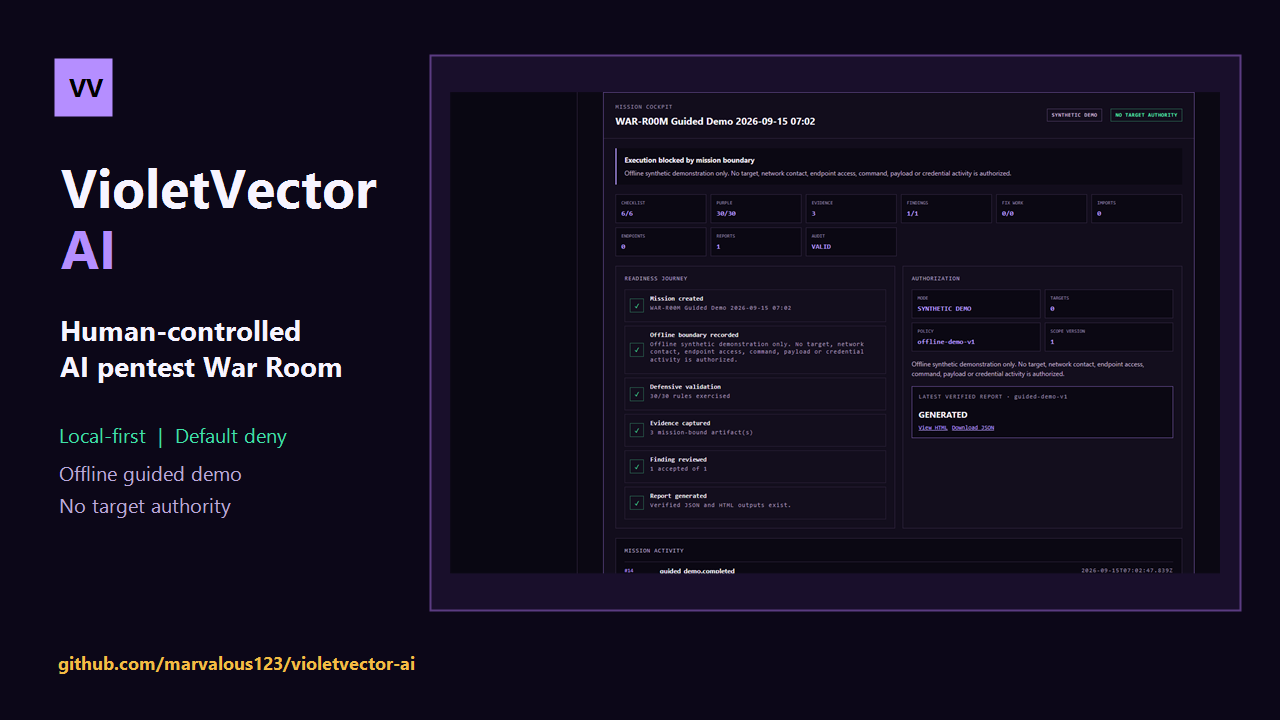
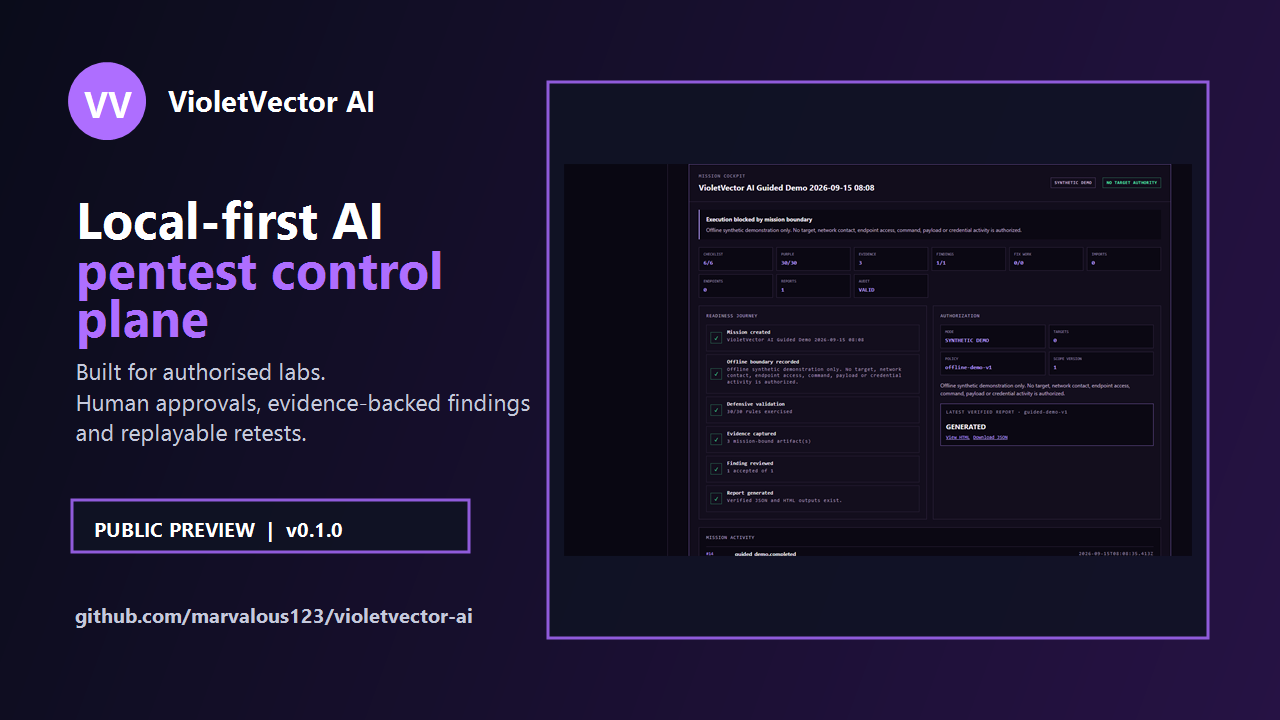
Complete VioletVector product rebrand

diff --git a/apps/web/src/main.tsx b/apps/web/src/main.tsx
@@ -1647,7 +1647,7 @@ function App() {
     return (
       <main className="operator-lock">
         <form className="panel unlock-panel" onSubmit={unlock} autoComplete="off">
-          <div className="panel-title"><div><p>LOCAL OPERATOR SESSION</p><h1>Unlock WAR-R00M</h1></div><span>{session === null ? "CHECKING" : "LOCKED"}</span></div>
+          <div className="panel-title"><div><p>LOCAL OPERATOR SESSION</p><h1>Unlock VioletVector AI</h1></div><span>{session === null ? "CHECKING" : "LOCKED"}</span></div>
           <div className="unlock-body">
           <div className="warning">Use the per-launch bootstrap secret shown in the local startup terminal. It is never stored in the browser or audit log.</div>
             <label>Operator name<input value={operatorName} onChange={(event) => setOperatorName(event.target.value)} minLength={2} maxLength={120} autoComplete="off" required /></label>
@@ -1663,7 +1663,7 @@ function App() {
   return (
     <div className="shell">
       <aside>
-        <div className="brand"><span>WR</span> WAR-R00M</div>
+        <div className="brand"><span>VV</span> VioletVector AI</div>
         <nav>
           {['Missions', 'Capabilities', 'Blue Team', 'Workflow', 'Plan & Compare', 'Local AI', 'Approvals', 'Findings', 'Evidence', 'Reports', 'System'].map((item) => (
             <button className={view === item ? 'active' : ''} key={item} onClick={() => setView(item)}>{item}</button>
@@ -1926,7 +1926,7 @@ function App() {
                   <span>ENDPOINTS<strong>{blueWorkspace?.liveEndpoints.length ?? 0}</strong></span>
                 </div>
                 <p className="blue-copy">
-                  The server accepts signed primitive facts and exact health measurements only. Detection labels are calculated here in WAR-R00M; commands never travel back to the endpoint.
+                  The server accepts signed primitive facts and exact health measurements only. Detection labels are calculated here in VioletVector AI; commands never travel back to the endpoint.
                 </p>
                 <div className="control-note">{blueWorkspace?.endpointAccess.note ?? "Loading endpoint boundary…"}</div>
                 <label>Enrolled endpoint
@@ -3307,7 +3307,7 @@ function App() {
                     <span>BINDING<strong>{supportDiagnostics.runtime.loopbackOnly ? "LOOPBACK" : "REVIEW"}</strong></span>
                   </div>
                   <div className="control-note">
-                    WAR-R00M {supportDiagnostics.product.version} · {supportDiagnostics.product.edition} · Node {supportDiagnostics.runtime.node} ·
+                    {supportDiagnostics.product.name} {supportDiagnostics.product.version} · {supportDiagnostics.product.edition} · Node {supportDiagnostics.runtime.node} ·
                     checked {supportDiagnostics.generatedAt}. This view deliberately omits targets, evidence content, secrets and local paths.
                   </div>
                   <div className="record-list">

diff --git a/apps/api/src/services/report-export-service.ts b/apps/api/src/services/report-export-service.ts
@@ -229,9 +229,9 @@ async function renderPdf(
 ): Promise<Uint8Array> {
   const document = await PDFDocument.create();
   document.setTitle(`${snapshot.mission.name} - Security Assessment Report`);
-  document.setAuthor("WAR-R00M");
+  document.setAuthor("VioletVector AI");
   document.setSubject("Evidence-backed authorized security assessment");
-  document.setCreator("WAR-R00M report-export-v1");
+  document.setCreator("VioletVector AI report-export-v1");
   const fixedDate = new Date(snapshot.frozenAt);
   document.setCreationDate(fixedDate);
   document.setModificationDate(fixedDate);
@@ -248,7 +248,7 @@ async function renderPdf(
   const newPage = () => {
     page = document.addPage([pageWidth, pageHeight]);
     pageNumber += 1;
-    page.drawText("WAR-R00M | EVIDENCE-BACKED ASSESSMENT", {
+    page.drawText("VIOLETVECTOR AI | EVIDENCE-BACKED ASSESSMENT", {
       x: margin,
       y: pageHeight - 42,
       size: 8,
@@ -465,7 +465,7 @@ async function renderDocx(
     )
   );
   const document = new Document({
-    creator: "WAR-R00M",
+    creator: "VioletVector AI",
     title: `${snapshot.mission.name} - Security Assessment Report`,
     description: "Evidence-backed authorized security assessment",
     styles: {
@@ -532,7 +532,7 @@ async function renderDocx(
         default: new Header({
           children: [
             new Paragraph({
-              children: [new TextRun({ text: "WAR-R00M | EVIDENCE-BACKED ASSESSMENT", size: 16, bold: true, color: "576D66" })]
+              children: [new TextRun({ text: "VIOLETVECTOR AI | EVIDENCE-BACKED ASSESSMENT", size: 16, bold: true, color: "576D66" })]
             })
           ]
         })

diff --git a/apps/api/src/server.ts b/apps/api/src/server.ts
@@ -1803,9 +1803,9 @@ export function startServer(options: ServerOptions = {}) {
   const configuredSecret = options.bootstrapSecret ?? process.env.WAR_ROOM_OPERATOR_BOOTSTRAP;
   const bootstrapSecret = configuredSecret ?? OperatorSessionService.generateBootstrapSecret();
   if (!configuredSecret) {
-    console.warn(`WAR-R00M per-launch operator bootstrap secret: ${bootstrapSecret}`);
+    console.warn(`VioletVector AI per-launch operator bootstrap secret: ${bootstrapSecret}`);
   }
   return buildServer({ ...options, bootstrapSecret }).listen(port, host, () => {
-    console.log(`WAR-R00M listening on http://${host}:${port}`);
+    console.log(`VioletVector AI listening on http://${host}:${port}`);
   });
 }

diff --git a/apps/api/src/services/support-diagnostics-service.ts b/apps/api/src/services/support-diagnostics-service.ts
@@ -20,7 +20,7 @@ const MAX_EVIDENCE_BYTES = 32 * 1024 * 1024;
 export interface SupportDiagnostics {
   readonly generatedAt: string;
   readonly product: {
-    readonly name: "WAR-R00M";
+    readonly name: "VioletVector AI";
     readonly version: "0.1.0";
     readonly edition: "starter" | "professional";
   };
@@ -84,7 +84,7 @@ export class SupportDiagnosticsService {
     return {
       generatedAt: now.toISOString(),
       product: {
-        name: "WAR-R00M",
+        name: "VioletVector AI",
         version: "0.1.0",
         edition: this.productEdition
       },

diff --git a/apps/api/src/services/blue-detection-service.ts b/apps/api/src/services/blue-detection-service.ts
@@ -703,7 +703,7 @@ function buildResult(scenarioId: BlueScenarioId, now: Date): BlueDetectionResult
           : "none",
       verdict: alerts.length ? "suspicious-behaviour-detected" : "no-rule-match",
       limitation:
-        "Synthetic signal matches validate the WAR-R00M pipeline, not live raw-event collection or proof that an endpoint was compromised."
+        "Synthetic signal matches validate the VioletVector AI pipeline, not live raw-event collection or proof that an endpoint was compromised."
     }
   };
 }

diff --git a/apps/api/src/services/guided-demo-service.ts b/apps/api/src/services/guided-demo-service.ts
@@ -33,7 +33,7 @@ export class GuidedDemoService {
     const normalizedOperator = operator.trim();
     if (normalizedOperator.length < 2 || normalizedOperator.length > 120) throw new Error("OPERATOR_INVALID");
     const mission = this.missions.createMission(
-      `WAR-R00M Guided Demo ${now.toISOString().slice(0, 16).replace("T", " ")}`,
+      `VioletVector AI Guided Demo ${now.toISOString().slice(0, 16).replace("T", " ")}`,
       now
     );
     const scopeVersionId = randomUUID();

diff --git a/apps/api/src/cli.ts b/apps/api/src/cli.ts
@@ -16,7 +16,7 @@ mkdirSync(join(dataRoot, "evidence"), { recursive: true });
 const configuredBootstrapSecret = process.env.WAR_ROOM_OPERATOR_BOOTSTRAP;
 const bootstrapSecret = configuredBootstrapSecret ?? OperatorSessionService.generateBootstrapSecret();
 if (!configuredBootstrapSecret) {
-  console.log(`WAR-R00M per-launch bootstrap secret: ${bootstrapSecret}`);
+  console.log(`VioletVector AI per-launch bootstrap secret: ${bootstrapSecret}`);
 }
 
 const executor =

diff --git a/apps/web/index.html b/apps/web/index.html
@@ -4,7 +4,7 @@
     <meta charset="UTF-8" />
     <meta name="viewport" content="width=device-width, initial-scale=1.0" />
     <meta name="theme-color" content="#0b0813" />
-    <title>WAR-R00M</title>
+    <title>VioletVector AI</title>
   </head>
   <body>
     <div id="root"></div>
